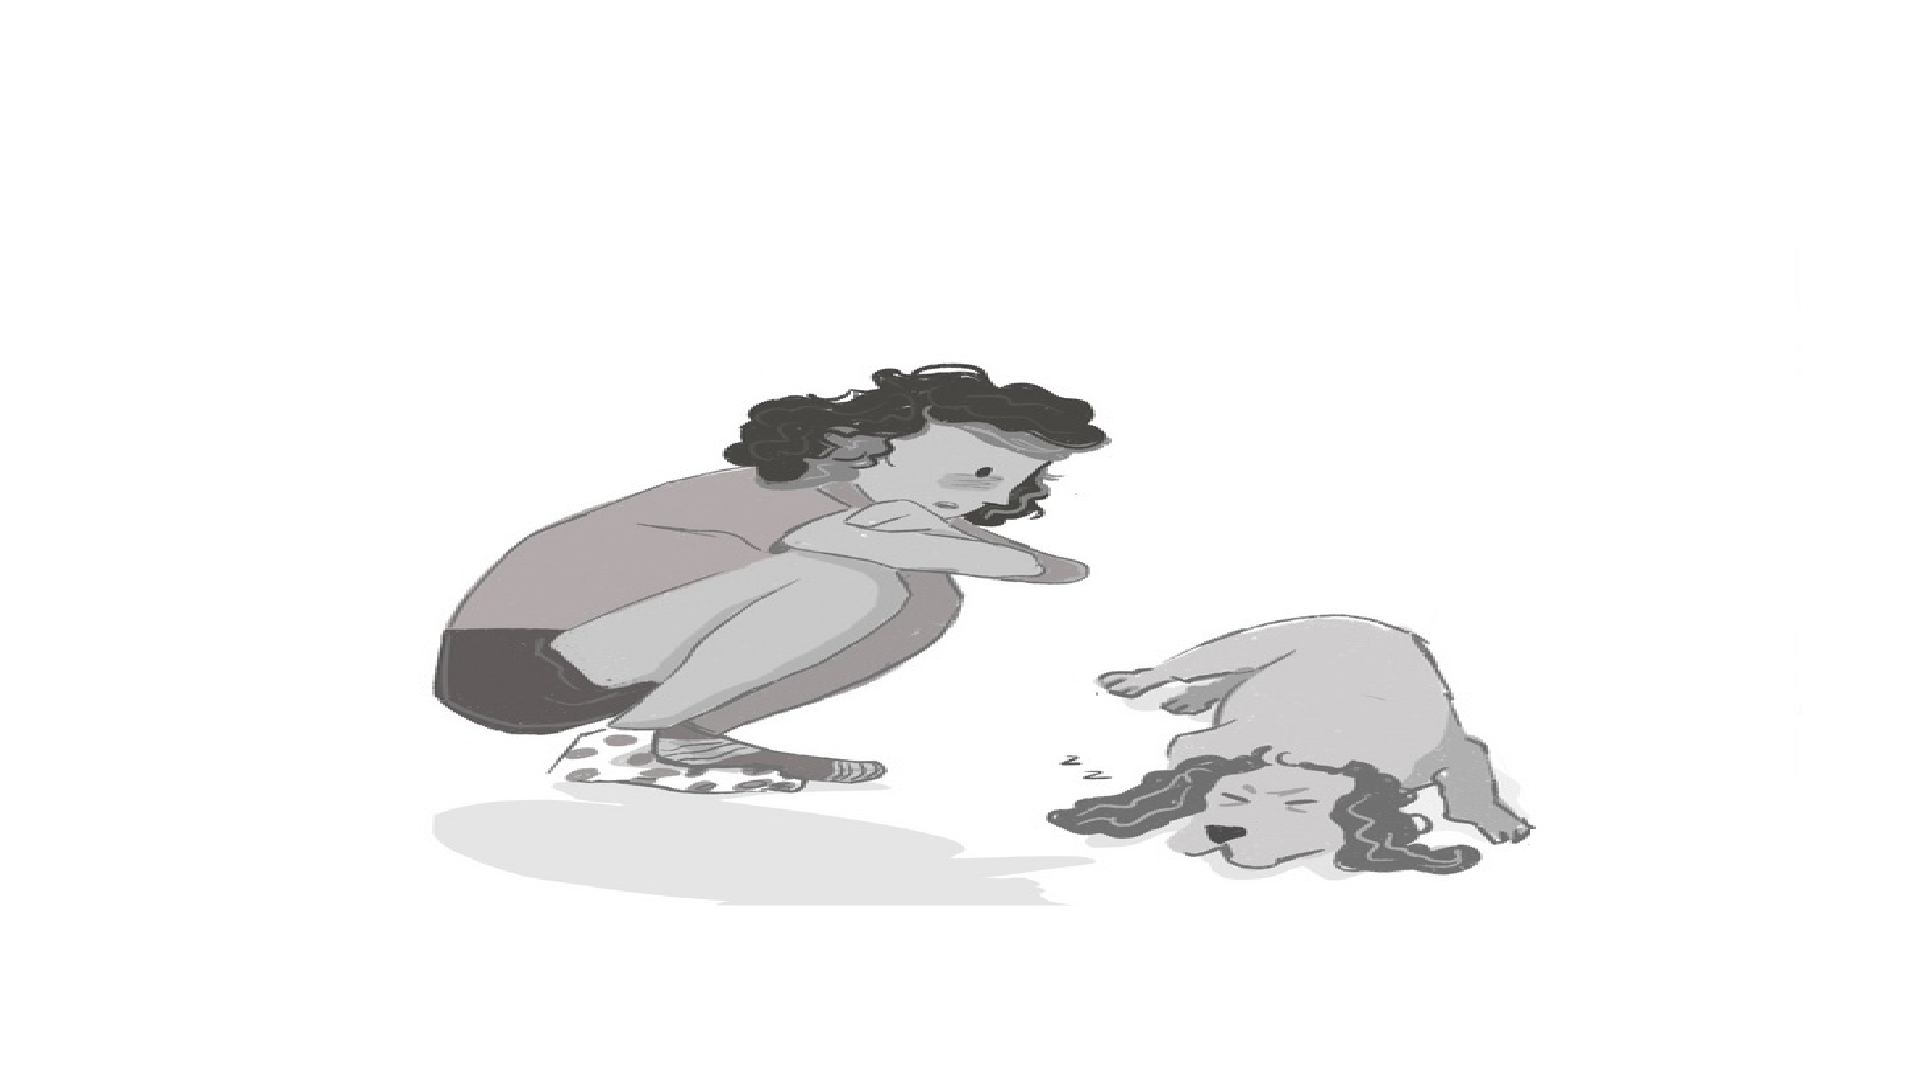
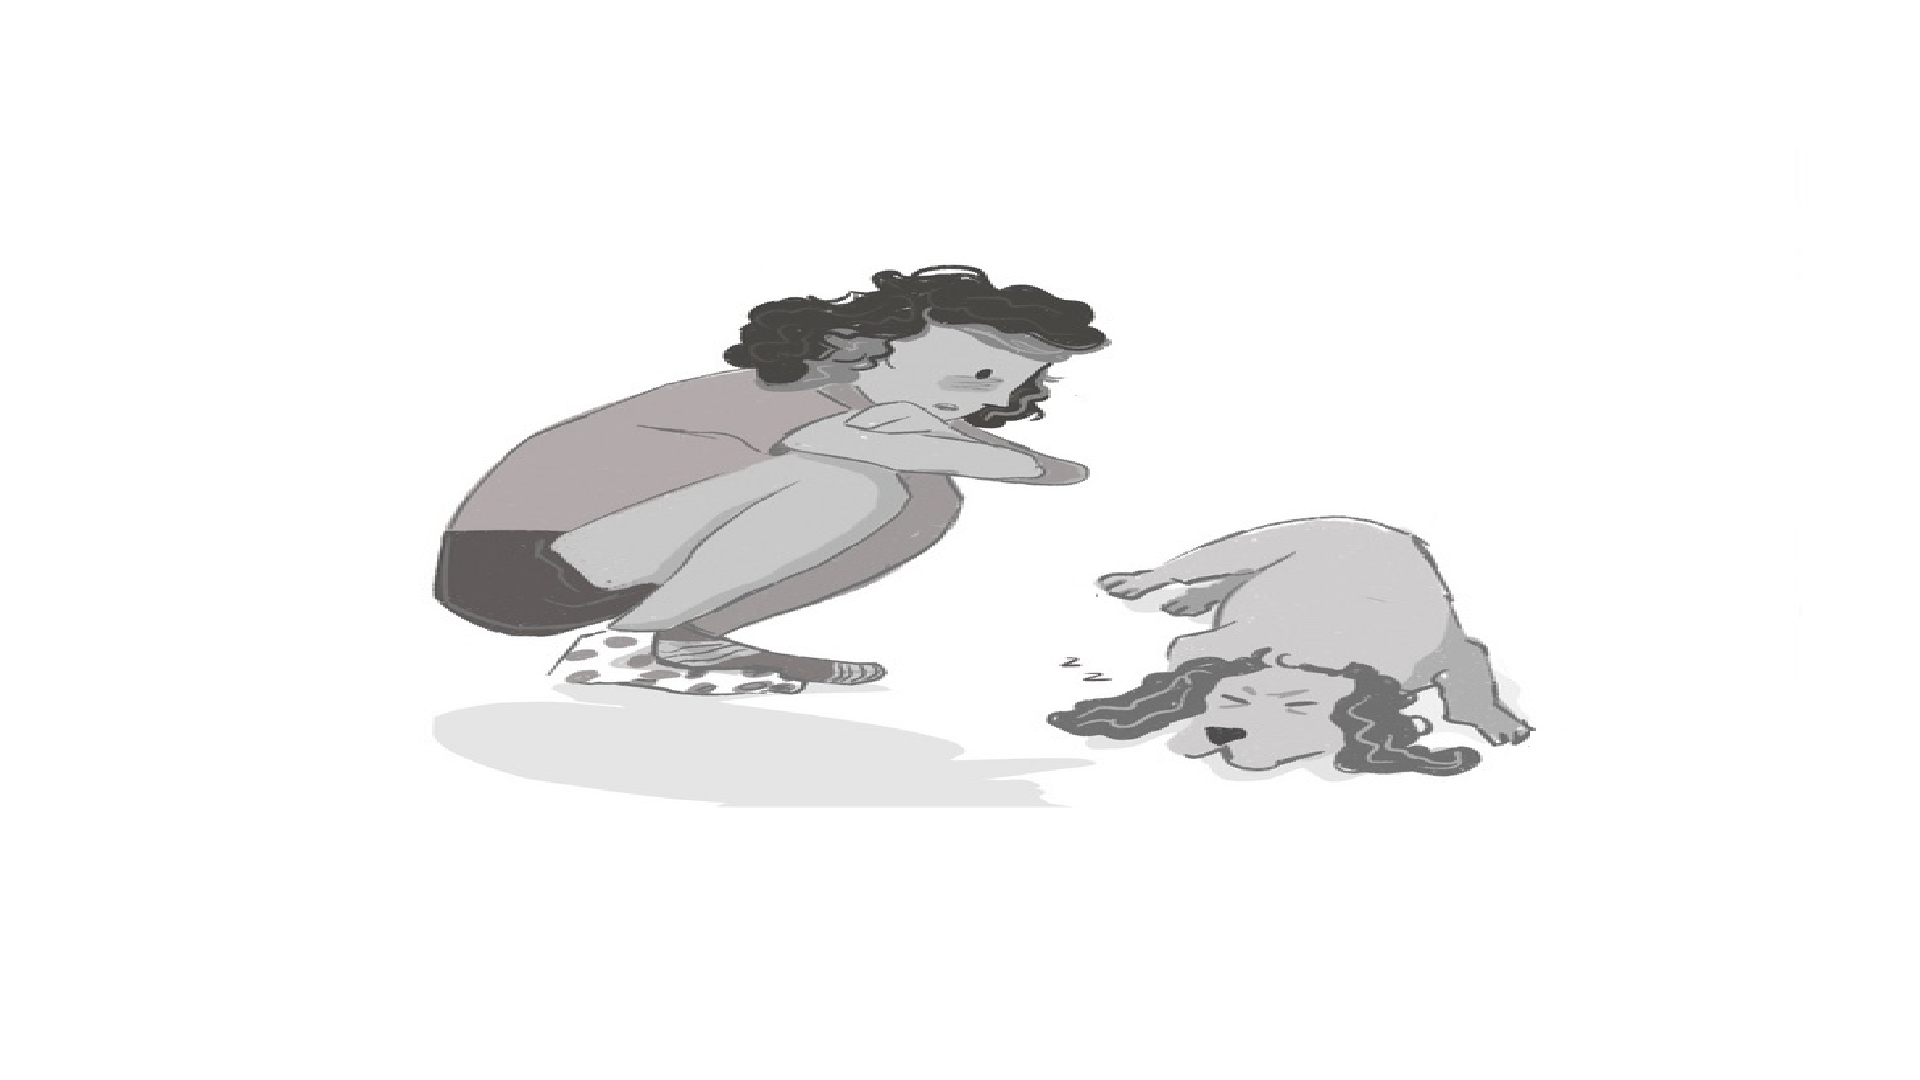
updates to home page

Changed region(s): [[0.2188, 0.2444, 0.8125, 0.8556]]

diff --git a/src/components/ThreeJSComponent.tsx b/src/components/ThreeJSComponent.tsx
@@ -64,8 +64,8 @@ const ThreeJSComponent: React.FC = () => {
       outlineMesh.position.z = isMobileDevice() ? -2.0 : 0.0;
       filledMesh.position.z = outlineMesh.position.z - 0.1;
 
-      filledMesh.position.y = isMobileDevice() ? -4.0 : 1.5;
-      outlineMesh.position.y = isMobileDevice() ? -4.0 : 1.5;
+      filledMesh.position.y = isMobileDevice() ? -4.0 : -2.8;
+      outlineMesh.position.y = isMobileDevice() ? -4.0 : -2.8;
 
       scene.add(outlineMesh);
       scene.add(filledMesh);
